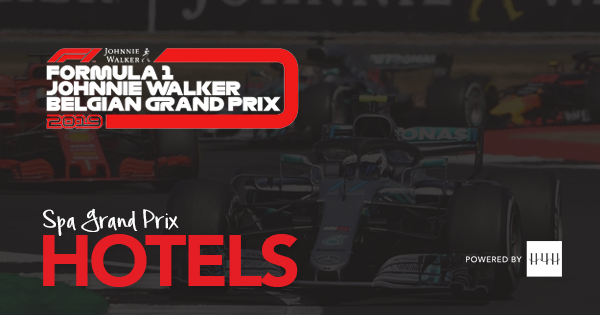
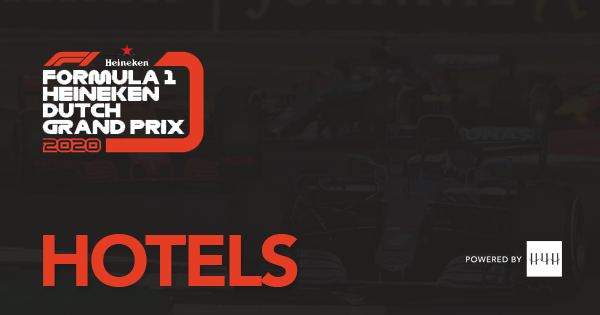
Merge Master into Develop

diff --git a/js/quint-packages.js b/js/quint-packages.js
@@ -1,39 +1,41 @@
 if (document.querySelector('.input-div')) {
 
-    function setPackage(stadium) {
-        document.querySelector('#packageSelection').value = stadium;
+    let stadiumSelect = document.querySelector('#stadiumSelection');
+    let upperLevel = document.querySelector('#upper-level');
+    let lowerLevel = document.querySelector('#lower-level');
+    let submit = document.querySelector('#goButton');
+    let package;
+    let stadium = stadiumSelect[stadiumSelect.selectedIndex].value;
+    let stars;
 
-        if (stadium === 'UpperLevel') {
-            document.querySelector('.ULbtn').style.backgroundColor = 'rgb(62, 84, 2)';
-            document.querySelector('.LLbtn').style.backgroundColor = 'rgb(84, 104, 29)';
-            document.querySelector('.ULcard').style.border = '1px solid rgba(255, 255, 255, 0.68)';
-            document.querySelector('.LLcard').style.border = 'none';
+    upperLevel.addEventListener('click', function() {
+        package = upperLevel.dataset.package;
+        stars = '&propertyclasses=2%20Stars,3%20Stars';
+        this.parentNode.classList.add('activePackage');
+        lowerLevel.parentNode.classList.remove('activePackage');
+    });
 
-        } else {
-            document.querySelector('.LLbtn').style.backgroundColor = 'rgb(62, 84, 2)';
-            document.querySelector('.ULbtn').style.backgroundColor = 'rgb(84, 104, 29)';
-            document.querySelector('.LLcard').style.border = '1px solid rgba(255, 255, 255, 0.68)';
-            document.querySelector('.ULcard').style.border = 'none';
+    lowerLevel.addEventListener('click', function() {
+        package = lowerLevel.dataset.package;
+        stars = '&propertyclasses=3%20Stars,4%20Stars,5%20Stars';
+        this.parentNode.classList.add('activePackage');
+        upperLevel.parentNode.classList.remove('activePackage');
+
+    });
+
+    stadiumSelect.addEventListener('change', function() {
+        stadium = this.value;
+    });
+
+    submit.addEventListener('click', function(e) {
+        e.preventDefault();
+        if(stadium && package != undefined){
+            window.open(stadium + '&package=' + package + stars, '_blank');
+            return;
         }
+        alert('Please select both a stadium and a package.');
+    });
 
-        buildURL(package);
-        buildURL(stadium);
-    }
-
-    let stadium = document.querySelector('#stadiumSelection');
-    let package = document.querySelector('#packageSelection');
-
-
-    function buildURL(input) {
-        let goButton = document.querySelector('#goButton');
-        let finalURL;
-        finalURL = stadium.value + '&package=' + package.value;
-        goButton.href = finalURL;
-        input.addEventListener("change", function () {
-            finalURL = stadium.value + '&package=' + package.value;
-            goButton.href = finalURL;
-        });
-    }
 
     let arnStyles = document.querySelector('#arn-styles');
     if (arnStyles) {
@@ -41,17 +43,10 @@ if (document.querySelector('.input-div')) {
         arnStyles.parentNode.removeChild(arnStyles);
     }
 
-    buildURL(package);
-    buildURL(stadium);
-
-    let ArnSupportLinks = document.querySelector('.ArnSupportLinks');
-    ArnSupportLinks.style.display = 'none';
-    let ArnSupportBottom = document.querySelector('.ArnSupportBottom');
-    ArnSupportBottom.style.display = 'none';
-    let subHeaderContainer = document.querySelector('.subHeaderContainer');
-    subHeaderContainer.style.display = 'none';
-    let ArnSubPage = document.querySelector('.ArnSubPage');
-    ArnSubPage.style.padding = '0';
+    document.querySelector('.ArnSupportLinks').style.display = 'none';
+    document.querySelector('.ArnSupportBottom').style.display = 'none';
+    document.querySelector('.subHeaderContainer').style.display = 'none';
+    document.querySelector('.ArnSubPage').style.padding = '0';
 }
 
 
@@ -60,8 +55,8 @@ if (document.querySelector('.ArnProperty')) {
     let params = new URLSearchParams(document.location.search.substring(1));
     let package = params.get('package');
     localStorage.setItem('package', package);
-    jQuery(document).on('ratesReadyEvent', function () {
-        setTimeout(function () {
+    jQuery(document).on('ratesReadyEvent', function() {
+        setTimeout(function() {
             if (!document.querySelector('.budgetTag')) {
                 updateTier(package);
             }
@@ -79,7 +74,7 @@ function updateTier(tier) {
         limit = 250 / 2;
     }
 
-    list.forEach(function (element) {
+    list.forEach(function(element) {
         price = element.querySelector('.arnUnit');
         if (price) {
             price = price.textContent;

diff --git a/emails/main-conf-email-final.html b/emails/main-conf-email-final.html
@@ -298,7 +298,7 @@
                   [elseif:siteid=51439]<img src="https://www.hotelsforhope.com/wp-content/uploads/2019/05/Logo-Voodoo.png" style="height: auto; width: 250px; max-width: 100%;" alt="Voodoo Music + Arts Experience Logo">                  
                   [elseif:siteid=52866]<img src="https://www.hotelsforhope.com/wp-content/uploads/2019/04/Logo-BIC.png" style="height: auto; width: 250px; max-width: 100%;" alt="Bahrain Grand Prix Logo">
                   [elseif:siteid=52867]<img src="https://www.hotelsforhope.com/wp-content/uploads/2019/05/Logo-VGP.png" style="height: auto; width: 250px; max-width: 100%;" alt="Hanoi Grand Prix Logo">                  
-                  [elseif:siteid=52407]<img src="https://www.hotelsforhope.com/wp-content/uploads/2019/06/Logo-BGP.png" style="height: auto; width: 250px; max-width: 100%;" alt="Dutch Grand Prix Logo">
+                  [elseif:siteid=52407]<img src="https://static.hotelsforhope.com/portals/child-portals/noLRG/52407/images/email-logo.png" style="height: auto; width: 300px; max-width: 100%;" alt="Dutch Grand Prix Logo">
                   [elseif:siteid=51438]<img src="https://www.hotelsforhope.com/wp-content/uploads/2019/06/Logo-Metarama.png" style="height: auto; width: 250px; max-width: 100%;" alt="Metarama Festival Logo">
                   [elseif:siteid=51824]<img src="https://www.hotelsforhope.com/wp-content/uploads/2019/06/Logo-Inc5000-2019.png" style="height: auto; width: 250px; max-width: 100%;" alt="Inc. 5000 Logo">
                   [elseif:siteid=51442]<img src="https://i5.createsend1.com/ti/i/0A/FFB/1BB/062022/csimport/logo-innings-festival_44.png" style="height: auto; width: 250px; max-width: 100%;" alt="Innings Fest Logo">

diff --git a/portals/child-portals/cug/52863/52863.css b/portals/child-portals/cug/52863/52863.css
@@ -869,3 +869,20 @@ ul {
         width: 100%;
     }
 }
+
+.SearchHotels .ArnPropName div.ArnPropClass {
+    display: inline !important;
+    margin: 2px 0 0 2% !important;
+    padding: 4px;
+    border-radius: 3px;
+    color: #555559;
+    font-weight: 600;
+    font-size: 13px;
+    background: #ffcc02;
+    position: relative;
+    top: 5px;
+}
+
+.SearchHotels .roomCount {
+    margin-top: 12px !important;
+}
